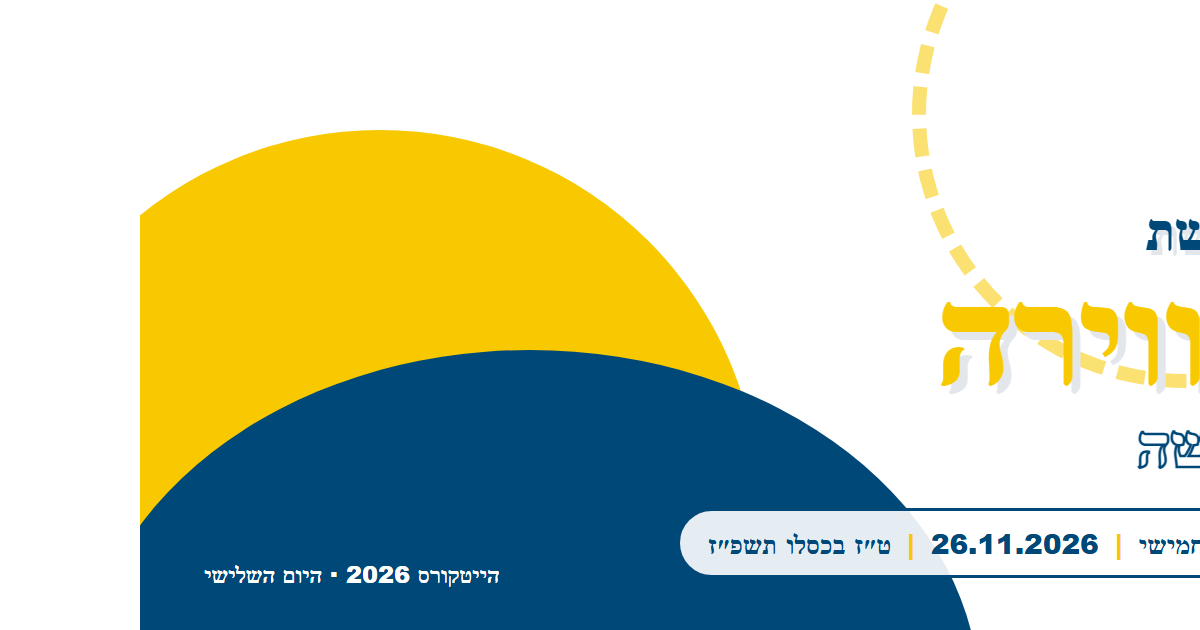
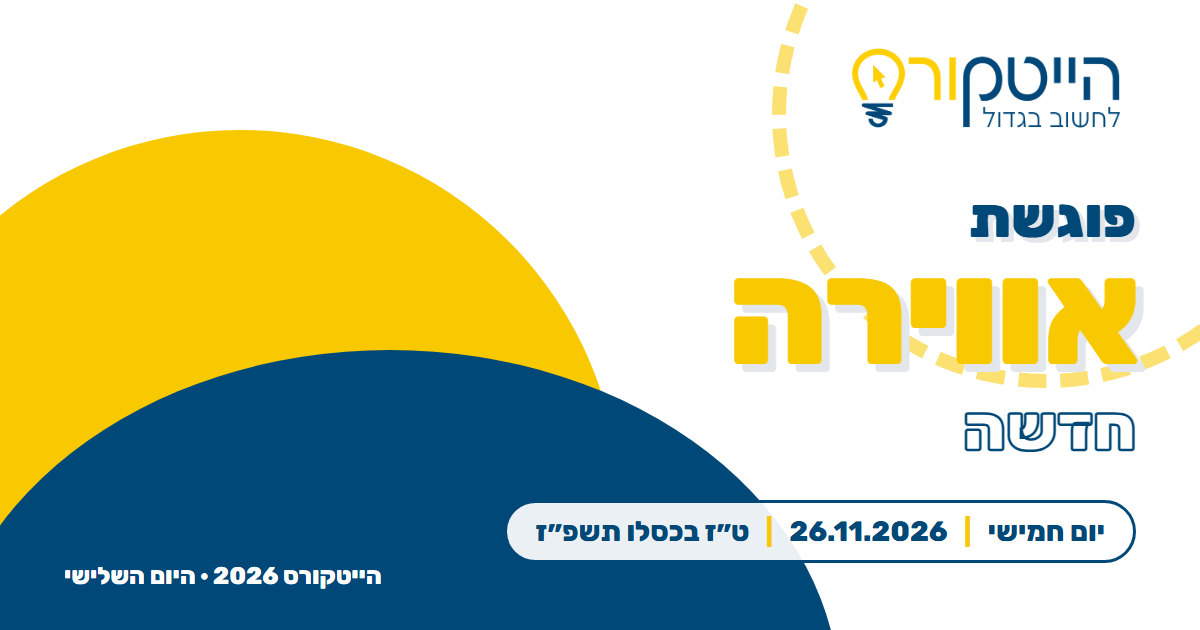
דף הכנס: הצורות בצד הנכון, שעת התוכנית לא מכוסה, גלולת התאריך לא נשברת בטלפון, תמונת השיתוף עם הפונט והלוגו
- The hero's shapes were placed with logical insets, which RTL mirrors: the
  navy wave sat behind the paragraph and the button. Physical sides now - the
  yellow/navy wave low on the left under the countdown card, the pale circle
  and dashed ring high on the right behind the title, like the brochure.
- The timeline: the rail and its dot ran over the first digit of every hour
  (״8:00״). Three columns now - hour | dot | text.
- The date pill wraps as whole chips (״יום חמישי״ never breaks), smaller on a
  phone.
- A block already above the screen (a refresh mid-page, a jump from the menu)
  shows at once instead of waiting for a scroll back.
- og.png: the blank render page could not load file:// font and logo - both
  inlined; the card is clipped on its own box.
- hc-check: 6 highlight cards (not 7); the strike check reads the drawn
  line's scaleX; the unknown-order callback carries no HC-code in its comment
  (the previous payload proved the comment fallback instead - now its own step).

diff --git a/src/app/hightecourse-2026/landing.tsx b/src/app/hightecourse-2026/landing.tsx
@@ -30,7 +30,7 @@ function useScrollEffects(root: React.RefObject<HTMLDivElement | null>) {
     const io = new IntersectionObserver(
       (entries) => {
         for (const e of entries) {
-          if (e.isIntersecting) {
+          if (e.isIntersecting || e.boundingClientRect.bottom < 0) {
             e.target.classList.add("hc-in");
             io.unobserve(e.target);
           }
@@ -147,7 +147,8 @@ export function Landing() {
         .hc-word-yellow { color: ${H.yellow}; text-shadow: 7px 7px 0 ${GREY}; }
         .hc-word-navy { color: ${H.navy}; text-shadow: 6px 6px 0 ${GREY}; }
         .hc-word-outline { color: transparent; -webkit-text-stroke: 2px ${H.navy}; }
-        .hc-pill { display: inline-flex; align-items: center; gap: 10px; border: 2px solid ${H.navy}; color: ${H.navy}; border-radius: 999px; padding: 8px 18px; font-weight: 700; background: rgba(255,255,255,.8); }
+        .hc-pill { display: inline-flex; flex-wrap: wrap; justify-content: center; align-items: center; gap: 2px 10px; border: 2px solid ${H.navy}; color: ${H.navy}; border-radius: 999px; padding: 8px 18px; font-weight: 700; background: rgba(255,255,255,.8); max-width: 100%; }
+        .hc-pill > span { white-space: nowrap; }
         .hc-btn { display: inline-flex; align-items: center; justify-content: center; gap: 10px; border-radius: 999px; font-weight: 800; transition: transform .25s ease, box-shadow .25s ease, background .25s ease; text-decoration: none; }
         .hc-btn:hover { transform: translateY(-2px); }
         .hc-btn-primary { position: relative; background: ${H.navy}; color: #fff; padding: 16px 34px; font-size: 19px; box-shadow: 0 14px 30px rgba(0,72,120,.28); }
@@ -176,11 +177,11 @@ export function Landing() {
         .hc-time { font-weight: 900; color: ${H.navy}; font-size: 30px; line-height: 1; font-variant-numeric: tabular-nums; }
         .hc-hand { font-style: italic; color: ${H.navy}; opacity: .85; }
         .hc-timeline { position: relative; }
-        .hc-rail { position: absolute; inset-inline-start: 56px; top: 10px; bottom: 10px; width: 4px; background: ${GREY}; border-radius: 4px; }
+        .hc-rail { position: absolute; inset-inline-start: 83px; top: 10px; bottom: 10px; width: 4px; background: ${GREY}; border-radius: 4px; }
         .hc-rail-fill { position: absolute; inset-inline-start: 0; top: 0; width: 100%; height: 0; background: ${H.yellow}; border-radius: 4px; transition: height .15s linear; }
-        .hc-row { position: relative; display: grid; grid-template-columns: 112px 1fr; gap: 0 18px; padding: 14px 0; }
+        .hc-row { position: relative; display: grid; grid-template-columns: 60px 30px 1fr; gap: 0 10px; padding: 14px 0; }
         .hc-row .hc-row-time { font-weight: 900; color: ${H.navy}; font-size: 18px; font-variant-numeric: tabular-nums; padding-top: 2px; }
-        .hc-dot { position: absolute; inset-inline-start: 50px; top: 20px; width: 16px; height: 16px; border-radius: 50%; background: #fff; border: 3px solid ${GREY}; transition: border-color .3s ease, transform .3s ease, background .3s ease; }
+        .hc-dot { position: absolute; inset-inline-start: 77px; top: 20px; width: 16px; height: 16px; border-radius: 50%; background: #fff; border: 3px solid ${GREY}; transition: border-color .3s ease, transform .3s ease, background .3s ease; }
         .hc-dot.hc-dot-on { border-color: ${H.navy}; background: ${H.yellow}; transform: scale(1.25); }
         .hc-row-body { background: ${H.row}; border-radius: 18px; padding: 14px 18px; }
         .hc-row-title { font-weight: 800; color: ${H.ink}; font-size: 17.5px; }
@@ -195,9 +196,10 @@ export function Landing() {
         .hc-in .hc-strike::after { transform: rotate(-8deg) scaleX(1); }
         .hc-wave { display: block; width: 100%; height: auto; }
         @media (max-width: 640px) {
-          .hc-rail { inset-inline-start: 46px; }
-          .hc-dot { inset-inline-start: 40px; }
-          .hc-row { grid-template-columns: 92px 1fr; gap: 0 12px; }
+          .hc-rail { inset-inline-start: 70px; }
+          .hc-dot { inset-inline-start: 64px; }
+          .hc-row { grid-template-columns: 52px 24px 1fr; gap: 0 8px; }
+          .hc-pill { font-size: 14px; padding: 7px 14px; gap: 2px 8px; }
           .hc-row .hc-row-time { font-size: 16px; }
           .hc-word-yellow, .hc-word-navy { text-shadow: 4px 4px 0 ${GREY}; }
         }
@@ -231,7 +233,7 @@ export function Landing() {
       {/* hero */}
       <section className="hc-hero">
         {/* the brochure's shapes: a yellow wave low on the left, a navy curve high on the right */}
-        <div className="hc-shape" style={{ insetInlineEnd: "-12%", top: "-22%", width: "58%", maxWidth: 760 }} data-parallax="0.18" aria-hidden>
+        <div className="hc-shape" style={{ right: "-12%", top: "-22%", width: "58%", maxWidth: 760 }} data-parallax="0.18" aria-hidden>
           <div className="hc-float">
             <svg viewBox="0 0 600 600" className="hc-wave">
               <path d="M300 20c160 0 290 110 290 270S460 590 300 590 10 460 10 290 140 20 300 20z" fill={H.yellowSoft} />
@@ -239,7 +241,7 @@ export function Landing() {
             </svg>
           </div>
         </div>
-        <div className="hc-shape" style={{ insetInlineStart: "-18%", bottom: "-28%", width: "70%", maxWidth: 900 }} data-parallax="-0.12" aria-hidden>
+        <div className="hc-shape" style={{ left: "-18%", bottom: "-28%", width: "70%", maxWidth: 900 }} data-parallax="-0.12" aria-hidden>
           <div className="hc-float2">
             <svg viewBox="0 0 900 500" className="hc-wave">
               <path d="M0 260C140 120 330 90 480 190s300 140 420 40v270H0z" fill={H.yellow} />
@@ -369,7 +371,7 @@ export function Landing() {
 
       {/* the full program */}
       <section id="schedule" className="relative overflow-hidden py-20 sm:py-24" style={{ background: H.bg }}>
-        <div className="hc-shape" style={{ insetInlineEnd: "-10%", top: "6%", width: "36%", maxWidth: 420, opacity: 0.9 }} data-parallax="0.08" aria-hidden>
+        <div className="hc-shape" style={{ left: "-10%", top: "6%", width: "36%", maxWidth: 420, opacity: 0.9 }} data-parallax="0.08" aria-hidden>
           <svg viewBox="0 0 400 400" className="hc-wave">
             <circle cx="200" cy="200" r="190" fill="none" stroke={H.yellow} strokeWidth="8" strokeDasharray="18 14" />
           </svg>
@@ -393,6 +395,7 @@ export function Landing() {
                 <div className="hc-row-time" dir="ltr">
                   {s.time}
                 </div>
+                <div aria-hidden />
                 <div className="hc-row-body">
                   <div className="hc-row-title">{s.title}</div>
                   {s.sub && <div className="hc-row-sub">{s.names?.length ? highlightNames(s.sub, s.names) : s.sub}</div>}
@@ -472,7 +475,7 @@ export function Landing() {
 
       {/* closing call */}
       <section className="relative overflow-hidden" style={{ background: H.navy }}>
-        <div className="hc-shape" style={{ insetInlineStart: "-6%", bottom: "-50%", width: "40%", maxWidth: 520, opacity: 0.9 }} data-parallax="-0.06" aria-hidden>
+        <div className="hc-shape" style={{ right: "-6%", bottom: "-50%", width: "40%", maxWidth: 520, opacity: 0.9 }} data-parallax="-0.06" aria-hidden>
           <svg viewBox="0 0 400 400" className="hc-wave">
             <circle cx="200" cy="200" r="200" fill={H.yellow} />
           </svg>
